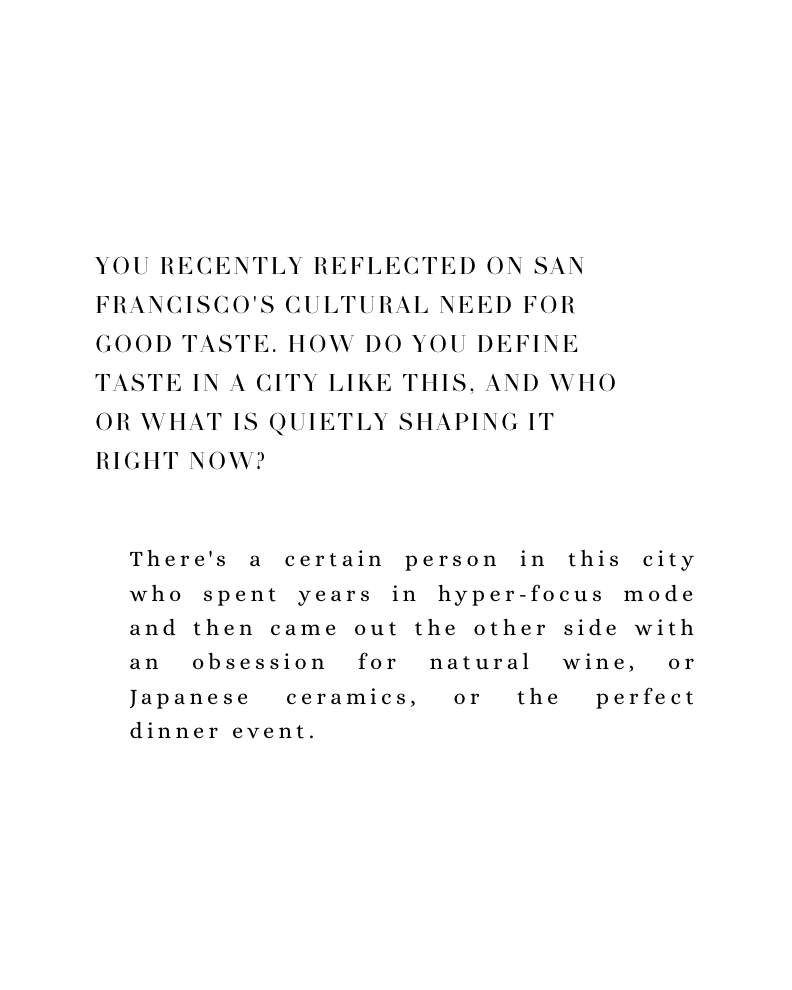
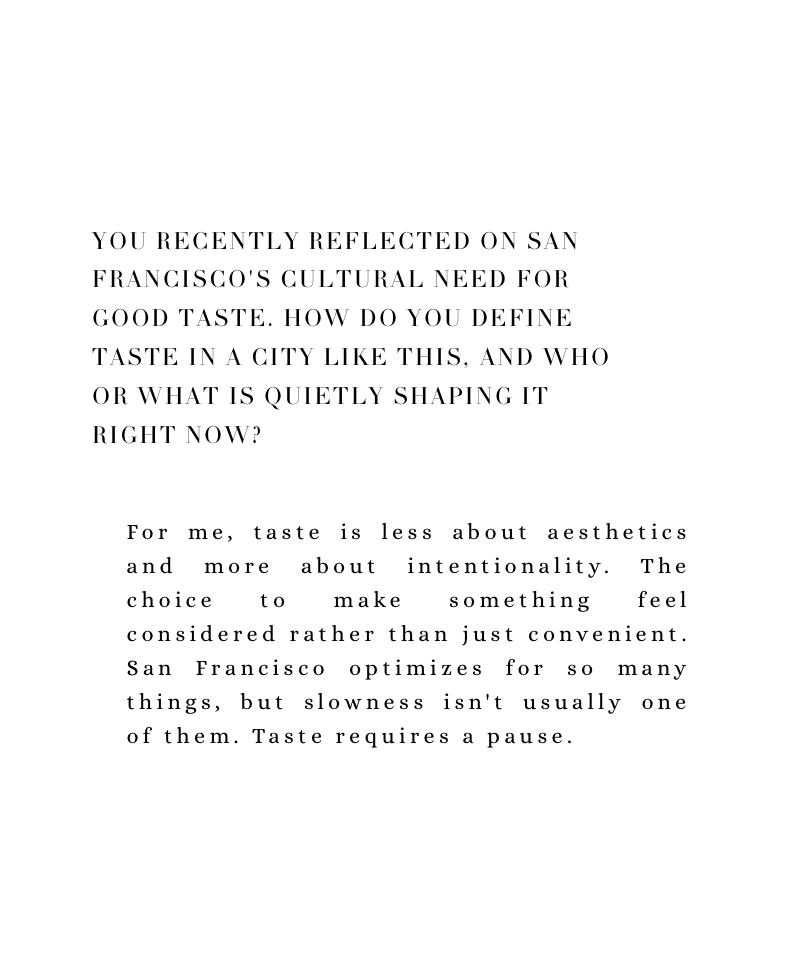
Update header image + refresh carousel images

Changed region(s): [[0.1527, 0.5215, 0.8855, 0.7669], [0.1221, 0.2147, 0.7939, 0.4908]]

diff --git a/index.html b/index.html
@@ -140,7 +140,7 @@
       color:#080808;
       padding:80px 20px 52px;
       background:
-        url("images/c000.jpg")
+        url("images/think_03.jpg")
         center/cover no-repeat;
     }
     .hero-with-bg h2{